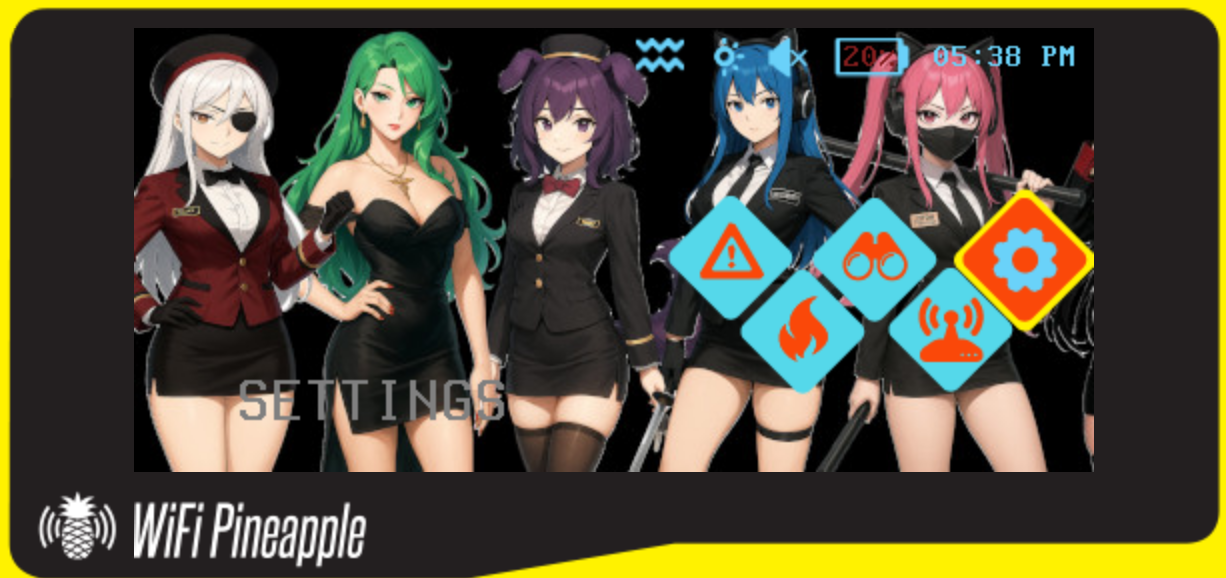
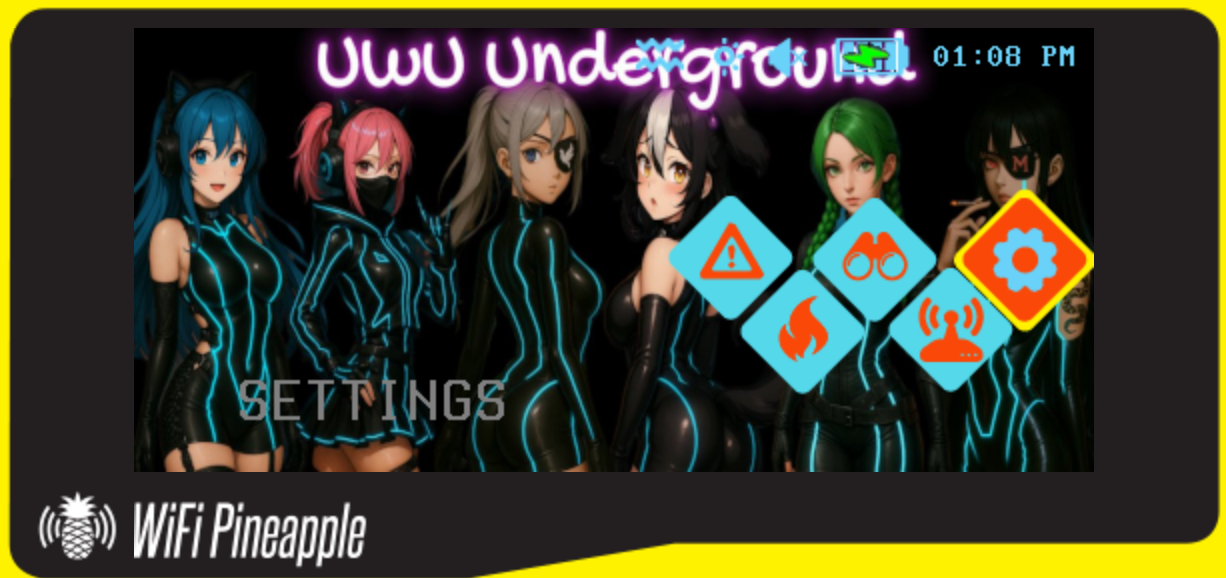
Updated payload and pineap dashboards, updated README

diff --git a/uwu_underground/UWU_THEME_README.md b/uwu_underground/UWU_THEME_README.md
@@ -45,15 +45,43 @@ uwu_underground/
 *Note: Full size backgrounds should be 480 x 222 pixels
 
 - `assets/alerts_dashboard/alerts_bg.png` - Yuma (Art provided by @_winter_wonders)    
-<img src="readme_images/alerts_dashboard.png" width="480" height="222" title="Art provided by @_winter_wonders">    
+<img src="readme_images/alerts_dashboard.png" width="480" height="222" title="Art provided by @_winter_wonders"><br>
+<br>
 - `assets/dashboard/main_dashboard.png` - 5 UwU members    
 <img src="readme_images/dashboard.png" width="480" height="222">    
+<br>
 - `assets/payloads_dashboard/payloads_bg.png` - Yuma (Art provided by @_winter_wonders)    
 <img src="readme_images/payload_dashboard.png" width="480" height="222" title="Art provided by @_winter_wonders">    
-- `assets/payloads_dashboard/recon_payloads_bg.png` - Yin    
+<br>
+- `assets/payloads_dashboard/recon_payloads_bg.png` - Yin  
+<br>  
 - `assets/blank_recon_bg.png` - Full UwU Team    
 <img src="readme_images/blank_recon_bg.png" width="480" height="222">  
-- `assets/launch_payload_dialog/launch_payload_bg.png` - Yuki    
+<br>
+- `assets/launch_payload_dialog/launch_payload_bg.png` - Yuki 
 <img src="readme_images/launch_payload_bg.png" width="480" height="222"> 
+<br>
 - `assets/settings_bg.png` - Yulia (Art provided by @_winter_wonders)    
 <img src="readme_images/settings_dashboard.png" width="480" height="222" title="Art provided by @_winter_wonders">    
+<br>
+- `assets/yang.png` - Yang (Art provided by @_winter_wonders)    
+<img src="readme_images/pineap_dashboard.png" width="480" height="222" title="Art provided by @_winter_wonders"><br>
+<br>
+- `components/dashboards/dashboard_settings.json` - Updated font colors to the following:    
+```
+Menu Items: blue
+Sub-menu Items: light_yellow
+Selected Item: orange
+```
+- `components/dashboards/dashboard_payloads.json` - Updated font colors to the following:    
+```
+Menu Items: dark_red
+Menu Folder Icon: orange
+Selected Item: yellow
+```
+- `components/dashboards/dashboard_pineap.json` - Updated font colors to the following:    
+```
+Menu Items: blue
+Sub-menu Items: light_green
+Selected Item: yellow
+```
